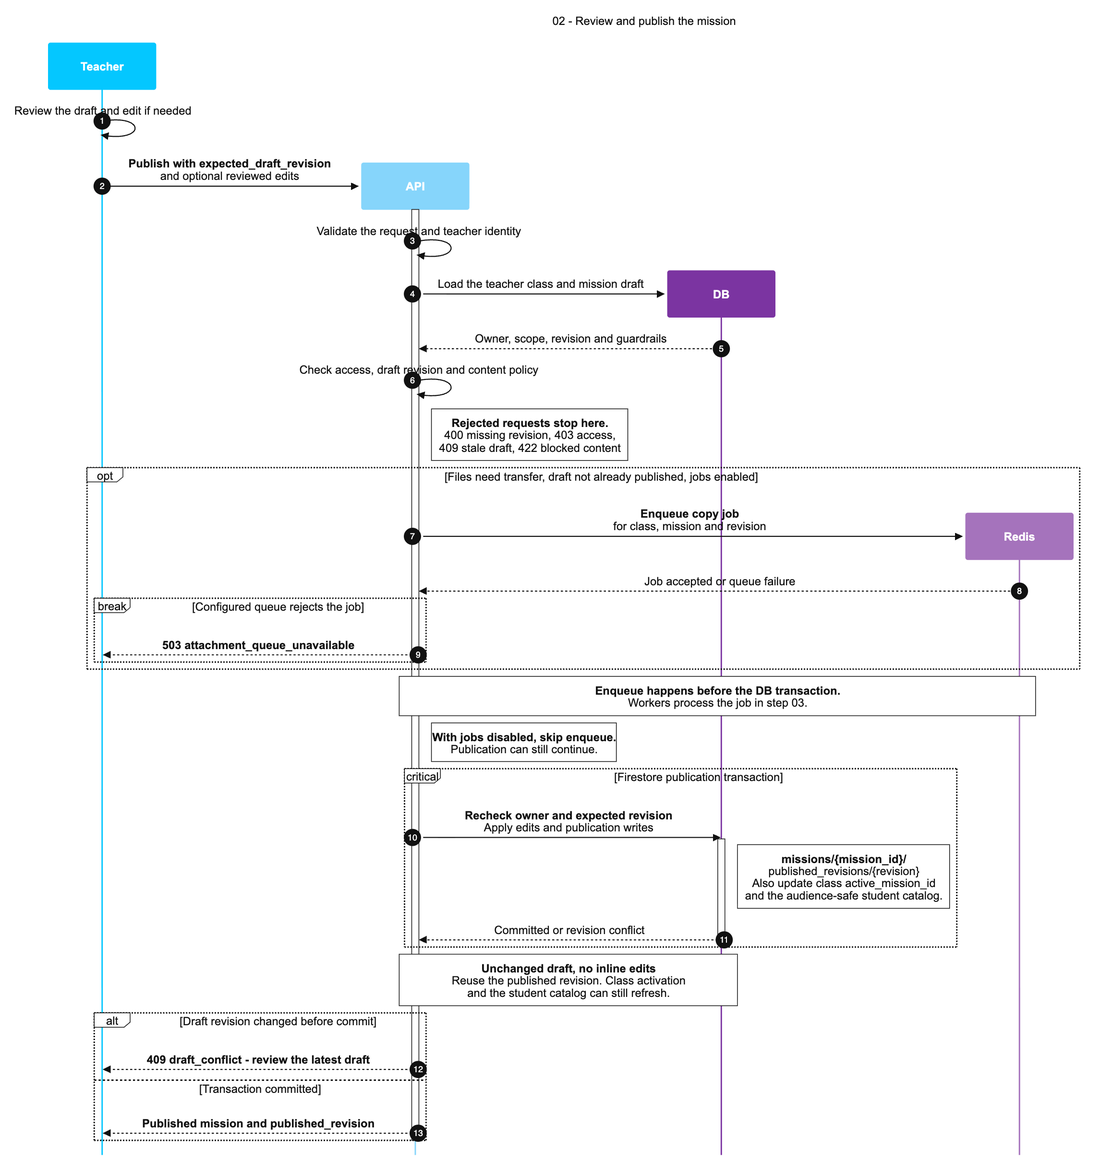
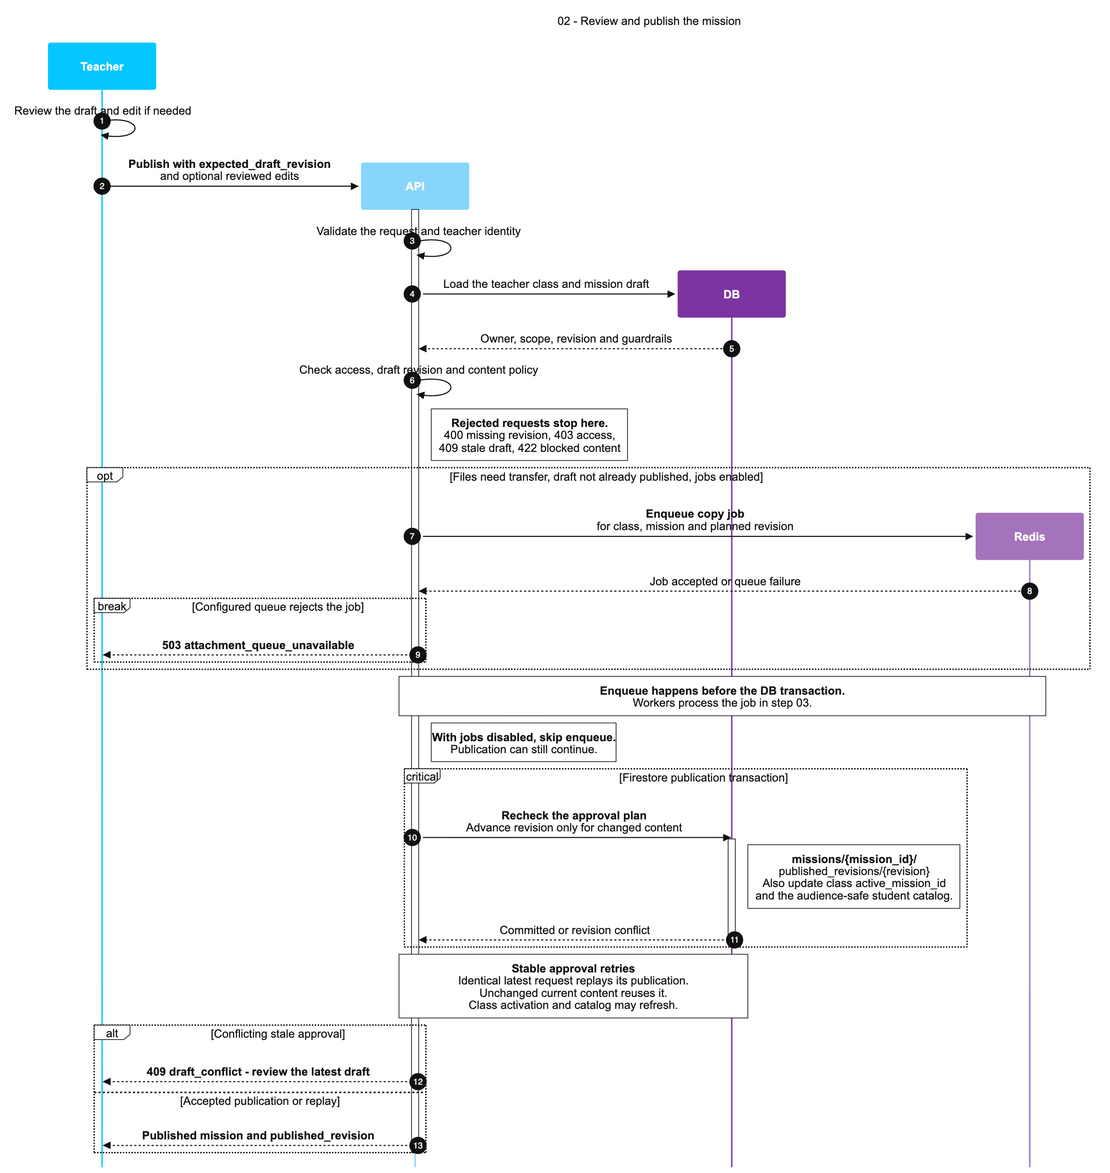
fix(recovery): preserve class intents and align contracts

diff --git a/api/internal/datarecovery/firestore.go b/api/internal/datarecovery/firestore.go
@@ -158,6 +158,9 @@ func (s *Store) Export(ctx context.Context, scope Scope) (Bundle, error) {
 	if e := add("class_learning_summaries/" + scope.Class); e != nil {
 		return b, e
 	}
+	if e := add("class_learning_refreshes/" + scope.Class); e != nil {
+		return b, e
+	}
 	sort.Slice(b.Records, func(i, j int) bool { return b.Records[i].Path < b.Records[j].Path })
 	b.SHA256 = b.Digest()
 	return b, b.Validate()
@@ -249,7 +252,10 @@ func (s *Store) apply(ctx context.Context, b Bundle, restoring bool) (bool, erro
 		return false, ErrConflict
 	}
 	writes := []*firestorepb.Write{}
+	refreshPath := "class_learning_refreshes/" + b.Scope.Class
+	hasRefresh := false
 	for _, record := range b.Records {
+		hasRefresh = hasRefresh || record.Path == refreshPath
 		var d firestorepb.Document
 		if e = protojson.Unmarshal(record.Document, &d); e != nil {
 			return false, e
@@ -262,6 +268,11 @@ func (s *Store) apply(ctx context.Context, b Bundle, restoring bool) (bool, erro
 		} else {
 			writes = append(writes, &firestorepb.Write{Operation: &firestorepb.Write_Delete{Delete: d.Name}, CurrentDocument: &firestorepb.Precondition{ConditionType: &firestorepb.Precondition_UpdateTime{UpdateTime: d.UpdateTime}}})
 		}
+	}
+	if !hasRefresh {
+		// An older bundle must not leave an untracked current intent behind.
+		// The absent-document precondition is checked with the recovery batch.
+		writes = append(writes, &firestorepb.Write{Operation: &firestorepb.Write_Delete{Delete: s.document(refreshPath)}, CurrentDocument: &firestorepb.Precondition{ConditionType: &firestorepb.Precondition_Exists{Exists: false}}})
 	}
 	next := "deleted"
 	if restoring {
@@ -291,6 +302,14 @@ func resetClaims(path string, d *firestorepb.Document) {
 		finalized := d.Fields["trace"].GetMapValue().GetFields()["finalized"].GetBooleanValue()
 		if !finalized && (text(d, "status") == "completed" || text(d, "status") == "abandoned") {
 			d.Fields["trace_state"] = str("pending")
+		}
+	}
+	if len(parts) == 2 && parts[0] == "class_learning_refreshes" {
+		d.Fields["owner_token"] = str("")
+		d.Fields["lease_until"] = zero
+		for _, key := range []string{"generation", "dispatch_generation"} {
+			generation := d.Fields[key].GetIntegerValue()
+			d.Fields[key] = &firestorepb.Value{ValueType: &firestorepb.Value_IntegerValue{IntegerValue: generation + 1}}
 		}
 	}
 	if len(parts) == 4 && parts[0] == "student_mission_attempts" && parts[2] == "tutor_events" && text(d, "state") == "processing" {

diff --git a/api/internal/apidocs/handler.go b/api/internal/apidocs/handler.go
@@ -193,7 +193,8 @@ func OpenAPI() object {
 	stream["description"] = "Authenticate and rate-limit before HTTP 200. Content-Type is text/event-stream. Event progress contains stage/message/percent; done contains mission; error contains the JSON error envelope. After stream headers are committed, failures are sent as error events. Respect cancellation and the generation deadline."
 	stream["responses"].(object)["200"] = object{"description": "SSE progress followed by done or error", "content": object{"text/event-stream": object{"schema": object{"type": "string"}, "example": "event: progress\ndata: {\"stage\":\"queued\",\"message\":\"Starting mission preview.\",\"percent\":1}\n\nevent: done\ndata: {\"mission\":{\"id\":\"mission-id\"}}\n\n"}}}
 	approve := add("/teacher-classes/{class_id}/missions/{mission_id}/approve", "post", "approveMission", "Publish the expected draft revision atomically", "teachers", missions.ApproveMissionRequest{}, record(object{"mission": builder.of(missions.MissionResponse{})}))
-	approve["responses"].(object)["409"] = response("Stale expected draft revision", errorSchema)
+	approve["description"] = "Changed reviewed content advances the draft and published revision. Identical retries of the latest accepted request replay while that publication remains current. Unchanged current content reuses its publication. Different stale edits return 409. Published content is created once; queue work targets the planned result revision."
+	approve["responses"].(object)["409"] = response("Conflicting stale approval or existing revision collision", errorSchema)
 	approve["responses"].(object)["422"] = response("Education guardrail prevents publication", errorSchema)
 	deletion := add("/teacher-classes/{class_id}/missions/{mission_id}", "delete", "deleteMission", "Soft-delete a mission while retaining published history", "teachers", nil, object{})
 	delete(deletion["responses"].(object), "200")

diff --git a/api/internal/datarecovery/bundle.go b/api/internal/datarecovery/bundle.go
@@ -81,6 +81,20 @@ func (b Bundle) Validate() error {
 	}
 	for path, d := range documents {
 		p := strings.Split(path, "/")
+		if len(p) == 2 && p[0] == "class_learning_refreshes" {
+			for _, key := range []string{"generation", "completed_generation", "dispatch_generation"} {
+				value := d.Fields[key]
+				if value == nil {
+					return ErrScope
+				}
+				if _, ok := value.ValueType.(*firestorepb.Value_IntegerValue); !ok || value.GetIntegerValue() < 0 || value.GetIntegerValue() == math.MaxInt64 {
+					return ErrScope
+				}
+			}
+			if d.Fields["completed_generation"].GetIntegerValue() > d.Fields["generation"].GetIntegerValue() {
+				return ErrScope
+			}
+		}
 		if len(p) == 2 && p[0] == "student_mission_attempts" {
 			if value := d.Fields["finalization_dispatch_generation"]; value != nil {
 				if _, ok := value.ValueType.(*firestorepb.Value_IntegerValue); !ok || value.GetIntegerValue() < 0 || value.GetIntegerValue() == math.MaxInt64 {
@@ -95,7 +109,7 @@ func (b Bundle) Validate() error {
 				valid = p[1] == b.Scope.Class && matchesTenant(d, b.Scope)
 			case "missions", "mission_codes", "student_mission_attempts":
 				valid = text(d, "class_id") == b.Scope.Class && matchesTenant(d, b.Scope)
-			case "class_learning_summaries", "class_learning_students":
+			case "class_learning_summaries", "class_learning_students", "class_learning_refreshes":
 				valid = p[1] == b.Scope.Class && text(d, "class_id") == b.Scope.Class && matchesTenant(d, b.Scope)
 			}
 		}

diff --git a/api/cmd/evalfirestore/fixtures.go b/api/cmd/evalfirestore/fixtures.go
@@ -91,7 +91,7 @@ func (s *suite) cleanup() error {
 				errs = append(errs, err)
 			}
 		}
-		for _, ref := range []*firestore.DocumentRef{ref, s.client.Collection("users").Doc(f.user.ID), s.client.Collection("student_mission_completions").Doc(f.user.ID).Collection("missions").Doc(f.attempt.ID)} {
+		for _, ref := range []*firestore.DocumentRef{ref, s.client.Collection("users").Doc(f.user.ID), s.client.Collection("student_mission_completions").Doc(f.user.ID).Collection("missions").Doc(f.attempt.ID), s.client.Collection(students.ClassRefreshCollection).Doc(f.attempt.ClassID)} {
 			if _, err := ref.Delete(ctx); err != nil {
 				errs = append(errs, err)
 			}

diff --git a/api/cmd/evalqueries/main.go b/api/cmd/evalqueries/main.go
@@ -172,6 +172,7 @@ func run() error {
 	identity := auth.Identity{ProviderUserID: teacherID, AuthMethod: auth.AuthMethodEmail}
 	service := insights.NewService(repo, classrooms.NewService(classrooms.NewFirestoreRepository(client)), nil)
 	owned = append(owned, client.Collection(students.ClassEvidenceCollection).Doc(prefix))
+	owned = append(owned, client.Collection(students.ClassRefreshCollection).Doc(prefix))
 	for u := 0; u < 120; u++ {
 		owned = append(owned, client.Collection(students.ClassEvidenceCollection).Doc(prefix).Collection("students").Doc(fmt.Sprintf("%s-u%03d", prefix, u)))
 	}

diff --git a/api/cmd/retentionsmoke/fixtures.go b/api/cmd/retentionsmoke/fixtures.go
@@ -165,6 +165,11 @@ func (s *suite) cleanup() error {
 			all = append(all, e)
 		}
 	}
+	if s.scope.Class != "" {
+		if _, e := s.store.Client.Collection(students.ClassRefreshCollection).Doc(s.scope.Class).Delete(ctx); e != nil {
+			all = append(all, e)
+		}
+	}
 	hash := sha256.Sum256([]byte(s.scope.Organization + "/" + s.scope.District + "/" + s.scope.School + "/" + s.scope.Class))
 	if _, e := s.store.Client.Collection("data_recovery_holds").Doc(hex.EncodeToString(hash[:])).Delete(ctx); e != nil {
 		all = append(all, e)

diff --git a/assets/diagrams/steps/05-learning-memory/README.md b/assets/diagrams/steps/05-learning-memory/README.md
@@ -17,17 +17,18 @@ The diagram shows the queued path. With jobs disabled or enqueue failure, the AP
 | `student_mission_attempts/{attempt_id}` | Record completion, pending/processing/ready trace state, owner, and source versions. |
 | `student_mission_completions/{student_id}/missions/{attempt_id}` | Store the authoritative completion marker. |
 | `class_learning_students/{class_id}/students/{student_id}` | Update the teacher-facing evidence projection when class scope still matches. |
+| `class_learning_refreshes/{class_id}` | Durable class intent, source/dispatch generations, and owner/lease for independent refresh. |
 | `users/{student_id}.student.learning_memory` | Replace memory only for the current class/tenant and evidence no older than the saved memory. |
 
-The final transaction saves the private trace. It also writes class evidence and student memory when their scope checks pass. The class summary at `class_learning_summaries/{class_id}` refreshes afterward as a separate operation.
+The final transaction saves the private trace. Eligible class evidence changes also advance the durable refresh intent in that transaction; student memory updates when its scope and recency checks pass. The class summary at `class_learning_summaries/{class_id}` refreshes through a separate versioned job or the same processor inline.
 
 ## Bounded memory and recovery
 
 Student memory keeps at most **4 strengths and 4 needs**, up to 180 characters each, plus next adaptation up to **280 characters**. Trace input uses at most 160 recent events, 12 progress entries, 40 notes, and 40 decisions. Previous-memory input is also capped. A later tutor turn receives filtered skill IDs and explanation style. History remains separate; compact memory does not delete historical evidence. See [retention and recovery](../../../../docs/operations/RETENTION-RECOVERY.md).
 
-The finalizer claims a random owner token and a **5-minute lease**. Its commit compares student/class/tenant scope, publication, status, snapshot/evidence versions, dispatch generation, and owner token. Lease expiry permits a new claim; the final write uses that captured owner/version fence. Finalized or superseded jobs do no new finalization work.
+The finalizer claims a random owner token and a **5-minute lease**. Its commit compares student/class/tenant scope, publication, status, snapshot/evidence versions, dispatch generation, and owner token. Lease expiry permits a new claim; the final write uses that captured owner/version fence. Finalized or superseded jobs do no new student finalization work; pending class refresh can still be scheduled.
 
-Worker recovery scans bounded pages of 50 rows, once per minute, excluding active claims and finalized attempts. Archived or exhausted job IDs need reviewed redrive. Missing models/events, quota limits, or provider failure can use an observed deterministic trace. Other returned processing errors remain retryable. See [queue recovery](../../../../docs/operations/QUEUES.md).
+Student recovery scans bounded pages of 50 rows per process, once per minute, excluding active claims and finalized attempts. Independent class-intent recovery still runs after student finalization, in worker roles or inline with jobs disabled. Quota denial and returned processing/read/save errors leave class work pending; accepted observed fallbacks can complete it. Its commit checks owner, lease, tenant, and source generation; equal timestamps/counts cannot authorize a stale summary. Archived or exhausted IDs need reviewed redrive. Missing models/events, quota limits, or provider failure can use an observed deterministic student trace. See [queue recovery](../../../../docs/operations/QUEUES.md).
 
 ## Current memory scopes
 
@@ -35,11 +36,11 @@ Worker recovery scans bounded pages of 50 rows, once per minute, excluding activ
 | --- | --- |
 | Student | Compact memory replaced by eligible finalization. |
 | Class | Finalized student evidence plus a separate class summary; its flow is the next step. |
-| Teacher | Private trace and class-summary views. Separate teacher-owned memory is a [design follow-up #98](https://github.com/velrino/classgame/issues/98). |
-| School | Tenant boundary; separate aggregate memory is a [design follow-up #99](https://github.com/velrino/classgame/issues/99). |
-| District | Tenant boundary; separate aggregate memory is a [design follow-up #100](https://github.com/velrino/classgame/issues/100). |
+| Teacher | Private trace and class-summary views. Separate teacher-owned memory is a [deferred proposal #98](https://github.com/velrino/classgame/issues/98). |
+| School | Tenant boundary; separate aggregate memory is a [deferred proposal #99](https://github.com/velrino/classgame/issues/99). |
+| District | Tenant boundary; separate aggregate memory is a [deferred proposal #100](https://github.com/velrino/classgame/issues/100). |
 
-Class refresh can be missed after successful student finalization: [issue #96](https://github.com/velrino/classgame/issues/96). Concurrent summaries also need a stronger evidence-set fence: [issue #97](https://github.com/velrino/classgame/issues/97). These runtime follow-ups are separate from this diagram.
+Class evidence changes, removals, and rebuild-window transitions advance the source generation. Independent recovery retries class work without regrading the finalized student. Summaries record their evidence generation and fingerprint. Legacy classes without an intent need explicit, reviewed bootstrap; see the queue guide.
 
 The `create participant` statements only place existing services at first use. Sources: [completion service](../../../../api/internal/modules/students/learning.go), [finalizer](../../../../api/internal/modules/students/learning_jobs.go), [claim and failure writes](../../../../api/internal/modules/students/firestore_finalization.go), [final commit](../../../../api/internal/modules/students/firestore_attempts.go), [fence](../../../../api/internal/modules/students/finalization.go), and [browser completion](../../../../web/src/modules/learning/adapters/hooks/use-learning-recovery.ts).
 

diff --git a/docs/reference/DATA-MODEL.md b/docs/reference/DATA-MODEL.md
@@ -7,7 +7,7 @@ Firestore is the durable store. Records carry the configured organization, distr
 | `tenants`, `districts`, `schools` | Tenant hierarchy |
 | `teachers/{uid}` | Teacher identity, profile, roles, activity |
 | `teacher_classes/{class_id}` | Ownership, class code, subject, active mission, status |
-| `missions/{mission_id}` | Draft/published snapshots, revisions, publication lifecycle |
+| `missions/{mission_id}` | Draft/published snapshots, revisions, private latest-approval retry receipt |
 | `missions/{mission_id}/published_revisions/{revision}` | Immutable published content and attachment-transfer state |
 | `mission_codes/{mission_code}` | Reserved mission-code lookup where used |
 | `student_class_missions/{class_id}/missions/{mission_id}` | Student-safe published mission catalog |
@@ -16,20 +16,23 @@ Firestore is the durable store. Records carry the configured organization, distr
 | `student_mission_completions/{student_id}/missions/{attempt_id}` | Minimal student-readable completion projection |
 | `class_learning_students/{class_id}` | Rebuild generation, cursor, and completion state |
 | `class_learning_students/{class_id}/students/{student_id}` | Private latest finalized evidence; source-version checked |
-| `class_learning_summaries/{class_id}` | Class-wide evidence synthesis |
+| `class_learning_summaries/{class_id}` | Class synthesis with source generation and fingerprint |
+| `class_learning_refreshes/{class_id}` | Private durable refresh intent, source/dispatch generations, owner and lease |
 | `data_recovery_holds/{scope_hash}` | Private recovery owner/version receipts; maintenance commands only |
 
 Legacy class-scoped mission reads may coexist during migration. New writes and migrations must state which representation is authoritative before retiring compatibility reads.
 
 ## Publication
 
-A mission retains separate draft and published content. Approval checks the expected draft revision and transactionally creates its immutable revision, updates the current mission, activates it for the classroom, and refreshes the student catalog. Existing attempts keep their pinned content. Soft deletion removes discoverability while preserving history needed by attempts and background jobs.
+A mission retains separate draft and published content. Changed inline approval content advances its revision. The transaction creates published content once, updates the current mission, activates it for the classroom, and refreshes the student catalog. A private request receipt supports exact latest-approval replay; conflicting stale intent fails. Existing attempts keep their pinned content. Soft deletion removes discoverability while preserving history needed by attempts and background jobs.
 
 ## Learning
 
 Attempts identify the student, class, mission, and published revision. Resume state includes a revisioned checkpoint. Observable events and tutor turns support evidence traces; student memory records supported strengths, needs, explanation preference, and the next adaptation.
 
-Treat browser snapshots as untrusted input. Derive authoritative progress from accepted events against the pinned mission rather than trusting client completion flags. Finalized evidence and duplicate event/task identities need explicit replay behavior.
+Treat browser snapshots as untrusted input. Display, tutor grounding, and accepted-answer assessment use one pinned playable-question policy, including short and legacy publications. Derive authoritative progress from accepted events rather than trusting client completion flags.
+
+Changed class evidence, source invalidation, and rebuild-window changes atomically advance a durable class refresh intent. Summary writes compare its owner, lease, tenant, and source generation; timestamps/counts remain metadata. Recovery can retry class synthesis after the student attempt is finalized, without regrading it.
 
 The [retention policy](../operations/RETENTION-RECOVERY.md) keeps class cleanup separate from global user/auth ownership. Encrypted class backups preserve Firestore field types; local restore clears old processing leases and advances finalizer dispatch generation. No live deletion or restore runs automatically.
 

diff --git a/docs/operations/QUEUES.md b/docs/operations/QUEUES.md
@@ -40,6 +40,22 @@ Fix dependency/configuration failures before retrying. Invalid jobs remain archi
 
 Learning pending markers are scanned in bounded pages by worker recovery. Active claims and current scope/version checks remain authoritative. After exhausted retries, use `go run ./cmd/learning-recovery --limit 25 --redrive` after reviewing the same read-only page to advance the dispatch generation; normal scans must retain the stable ID.
 
+Class synthesis has its own durable `class_learning_refreshes/{class_id}` intent. Evidence writes/removals and rebuild transitions advance its generation in the source transaction. The `class_refresh` job uses class, source generation, and dispatch generation as its stable identity. Owner/lease and tenant/source checks fence the summary commit. Failed processing stays pending even when the student trace is already finalized.
+
+Each worker process scans up to 50 class intents per minute. With jobs disabled, API roles run the same bounded recovery inline. From `api/`, after setting the broker and application configuration:
+
+```sh
+# Read-only pending page, then explicitly enqueue the reviewed page.
+go run ./cmd/learning-recovery --class-refresh --limit 25
+go run ./cmd/learning-recovery --class-refresh --limit 25 --enqueue
+# After reviewing archived/exhausted work, advance dispatch generation.
+go run ./cmd/learning-recovery --class-refresh --limit 25 --redrive
+# Explicit bootstrap for one legacy class without a durable intent.
+go run ./cmd/learning-recovery --class-refresh --class-id CLASS_ID --enqueue
+```
+
+Normal scans never create historical class intents or regrade students. Upgrade all workers before producers of `class_refresh`; older strict job decoders cannot consume this new kind. During rollback, pause compatible producers and preserve/reconcile pending work before removing compatible workers.
+
 Attachment transfer markers live in immutable mission revisions. Automatic attachment scans are not installed. After broker loss, inspect the stored `attachment_transfer_status`, class, mission and revision, then explicitly re-enqueue the known revision:
 
 ```sh
@@ -48,6 +64,8 @@ go run ./cmd/jobs --enqueue-attachment-class CLASS_ID \
 ```
 
 This only schedules the existing processor. It never grants public access or changes worksheet data itself. For an archived ID, review it and use `--retry`; for a completed ID restored from older database state, coordinate the 24-hour ID retention before re-enqueueing. Back up the broker before any queue deletion or bulk replay.
+
+Stored attachment outcomes keep their first validated object and timestamps. Late failures cannot downgrade them. Permanent failures stay skipped on retry; a validated success already in flight can recover them. Corrected source content otherwise uses a new published revision.
 
 ## Release gates and rollback
 

diff --git a/assets/diagrams/steps/02-mission-publication/README.md b/assets/diagrams/steps/02-mission-publication/README.md
@@ -9,7 +9,7 @@ Start with the saved preview from [step 01](../01-mission-draft/README.md). The 
 - A configured Redis queue accepts the revision-scoped copy job before the Firestore transaction. These are separate operations. A queue failure stops publication.
 - With jobs disabled, publication can continue without a background copy.
 - A worker can receive the job before publication. It retries while the expected revision is pending. Worker execution belongs to step 03.
-- The transaction rechecks ownership and revision. Publishing unchanged content without inline edits reuses the revision, while refreshing class activation and the student catalog.
+- The transaction rechecks ownership and the approval plan. Changed content advances the revision. Unchanged current content reuses publication, while refreshing class activation and the student catalog.
 
 ## Firestore records
 
@@ -34,9 +34,9 @@ Start with the saved preview from [step 01](../01-mission-draft/README.md). The 
 
 The diagram shows the main flow and key branches. It is not an exhaustive HTTP error map.
 
-## Known integrity limit
+## Stable approval retries
 
-Inline approval edits currently do not advance the draft revision. Different edited approvals can overwrite the same published revision. This is tracked in [issue #81](https://github.com/velrino/classgame/issues/81); this diagram does not claim immutable snapshots or general exactly-once publication.
+An edited approval of draft 1 can publish revision 2. The same normalized request with expected revision 1 replays revision 2 while that accepted publication is current. Different stale edits, or a retry after a later draft change, return `409`. A private receipt identifies the latest accepted request. Published content uses create-only writes; queue jobs use the planned result revision.
 
 The `create participant` statements introduce existing services visually. They do not provision services. Redis is optional, so its header marks the first possible queue call.
 

diff --git a/docs/reference/API.md b/docs/reference/API.md
@@ -28,7 +28,7 @@ Protected browser requests send `Authorization: Bearer <Firebase ID token>`. Tea
 | `POST /teacher-classes/{class_id}/missions/{mission_id}/approve` | Publish the expected draft revision |
 | `DELETE /teacher-classes/{class_id}/missions/{mission_id}` | Soft-delete a mission |
 
-Requests and responses retain `snake_case` fields. Approval requires `expected_draft_revision`; stale revisions return `409` rather than overwriting another editor. Use OpenAPI for payload schemas and response details.
+Requests and responses retain `snake_case` fields. Approval requires `expected_draft_revision`. Changed reviewed content advances the draft and published revision; unchanged current content reuses its publication. An identical retry of the latest accepted request replays while that publication is current. Different stale edits return `409`. Use OpenAPI for payload schemas and response details.
 
 Class and mission list endpoints accept `limit` (default `50`, maximum `100`) and an opaque `cursor`. Responses return `next_cursor` when another page is available. Treat cursors as opaque and retain the same class/teacher scope when following a page; pagination does not change authorization.
 

diff --git a/assets/diagrams/steps/03-attachment-transfer/README.md b/assets/diagrams/steps/03-attachment-transfer/README.md
@@ -30,7 +30,7 @@ Legacy class-nested mission records remain readable. Storage calls happen outsid
 
 ## Current limits
 
-This flow has **no separate attachment owner token** and does not guarantee exactly-once processing. Concurrent result writes need stronger transition checks: [issue #88](https://github.com/velrino/classgame/issues/88). Publication edits can also overwrite a revision: [issue #81](https://github.com/velrino/classgame/issues/81). These are separate runtime follow-ups.
+This flow has **no separate attachment owner token**. The transaction checks full attachment identity and preserves the first validated stored object and timestamps. Late failures cannot downgrade stored results or make a permanent failure retryable. A validated success already in flight may recover a failed file; other corrected source content uses a new published revision. These rules support retries without claiming exactly-once execution.
 
 There is no automatic attachment recovery scan. After broker loss or archived work, follow the [queue recovery guide](../../../../docs/operations/QUEUES.md). Private-access setup is covered in [private uploads](../../../../docs/operations/PRIVATE-UPLOADS.md).
 
